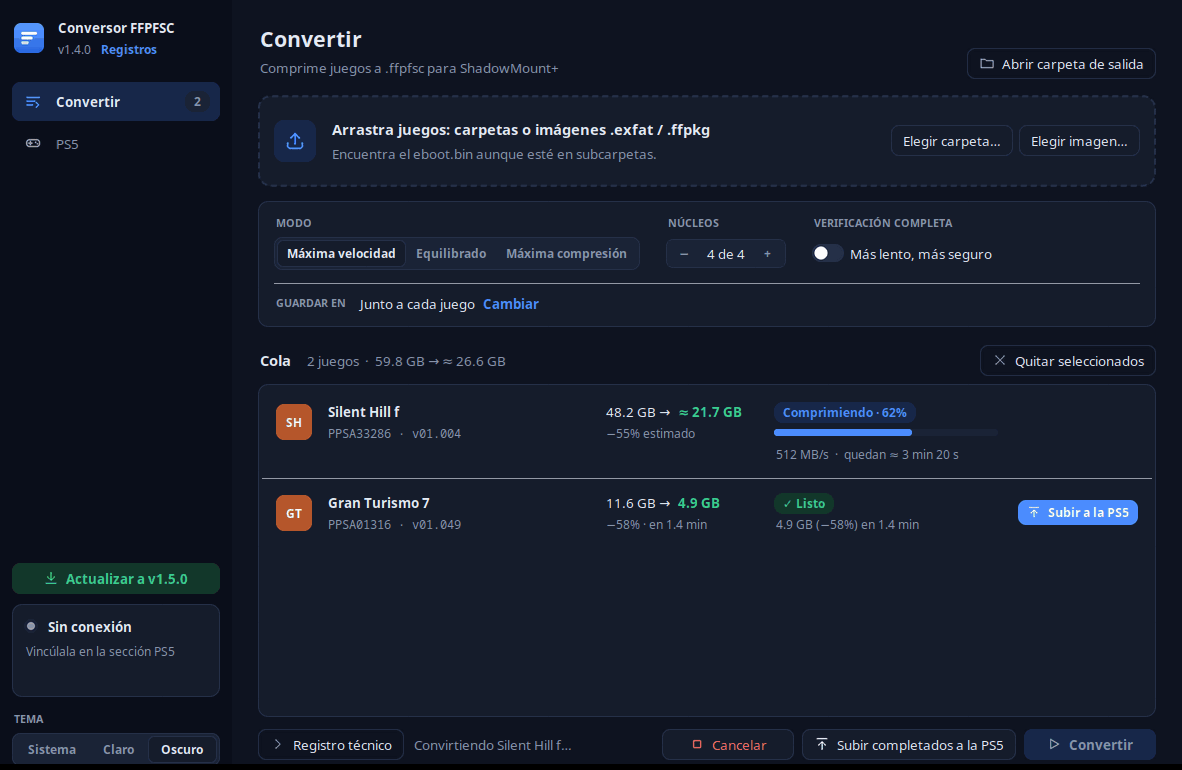
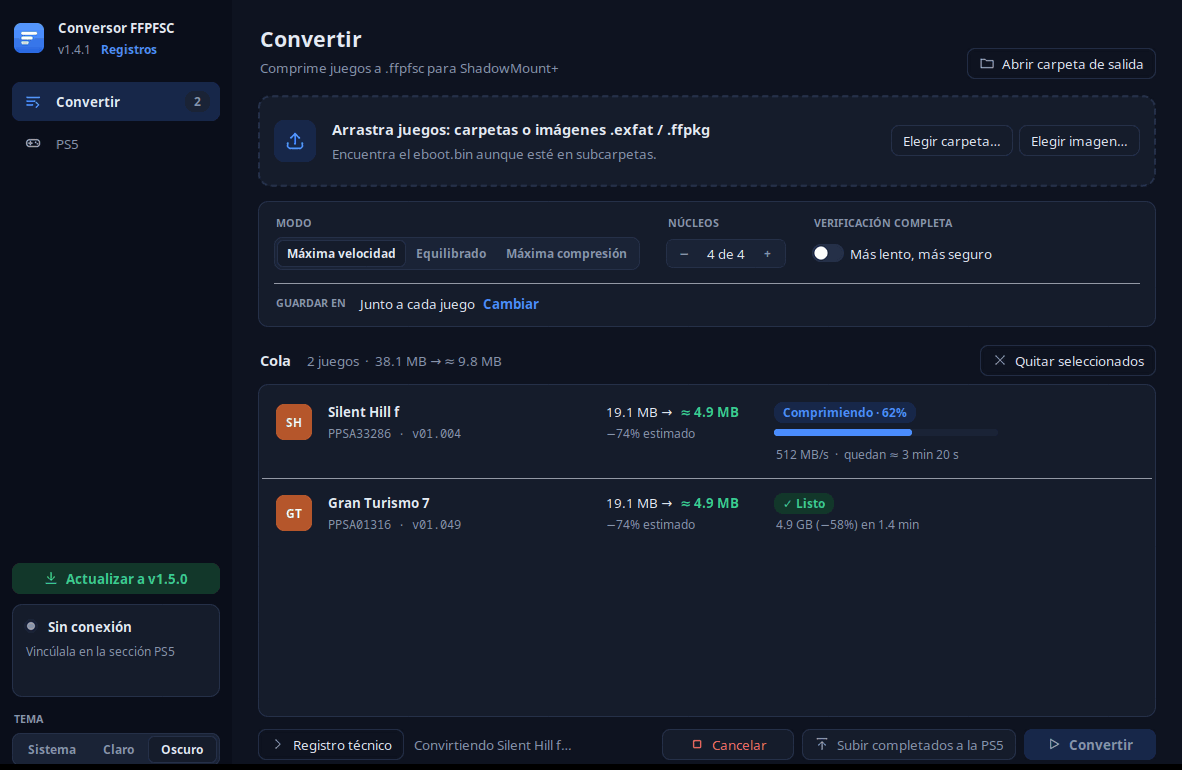
chore(release): v1.4.1
- Versión 1.4.1 en __init__.py, la insignia del README y los ejemplos de
  las docstrings.
- CHANGELOG: las correcciones del congelamiento al comprimir pasan a
  [1.4.1] - 2026-10-10.
- Capturas del README con la versión 1.4.1.

diff --git a/src/ffpfsc_converter/ui/presenters.py b/src/ffpfsc_converter/ui/presenters.py
@@ -27,7 +27,7 @@ def version_text(version: str = __version__) -> str:
         version (str): Versión en formato SemVer; por defecto, la instalada.
 
     Returns:
-        str: Versión con prefijo, por ejemplo ``"v1.4.0"``.
+        str: Versión con prefijo, por ejemplo ``"v1.4.1"``.
     """
     return f"v{version}"
 
@@ -39,7 +39,7 @@ def window_title(version: str = __version__) -> str:
         version (str): Versión en formato SemVer; por defecto, la instalada.
 
     Returns:
-        str: Por ejemplo ``"Conversor FFPFSC (PS5) — v1.4.0"``.
+        str: Por ejemplo ``"Conversor FFPFSC (PS5) — v1.4.1"``.
     """
     return f"{APP_TITLE} — {version_text(version)}"
 

diff --git a/src/ffpfsc_converter/ui/shell.py b/src/ffpfsc_converter/ui/shell.py
@@ -84,7 +84,7 @@ class AppShell(ttk.Frame):
         Args:
             root (tk.Misc): Ventana raíz.
             theme (ThemeManager): Tema.
-            version (str): Versión de la app (por ejemplo ``"v1.4.0"``).
+            version (str): Versión de la app (por ejemplo ``"v1.4.1"``).
         """
         super().__init__(root, style="TFrame")
         self._theme = theme

diff --git a/src/ffpfsc_converter/__init__.py b/src/ffpfsc_converter/__init__.py
@@ -4,4 +4,4 @@ Interfaz gráfica sobre MkPFS (https://github.com/PSBrew/MkPFS), configurada
 para máxima velocidad usando todos los núcleos de la CPU.
 """
 
-__version__ = "1.4.0"
+__version__ = "1.4.1"

diff --git a/README.md b/README.md
@@ -8,7 +8,7 @@
 
 **Carpeta de juego · `.exfat` · `.ffpkg` &nbsp;→&nbsp; `.ffpfsc`**
 
-[![Versión](https://img.shields.io/badge/versión-1.4.0-6366f1?style=for-the-badge)](CHANGELOG.md)
+[![Versión](https://img.shields.io/badge/versión-1.4.1-6366f1?style=for-the-badge)](CHANGELOG.md)
 [![Python](https://img.shields.io/badge/Python-3.10+-3776AB?style=for-the-badge&logo=python&logoColor=white)](https://www.python.org/)
 [![Linux](https://img.shields.io/badge/Linux-FCC624?style=for-the-badge&logo=linux&logoColor=black)](#-instalación)
 [![Windows](https://img.shields.io/badge/Windows-10%20%7C%2011-0078D6?style=for-the-badge&logo=windows&logoColor=white)](#-instalación)

diff --git a/CHANGELOG.md b/CHANGELOG.md
@@ -5,6 +5,8 @@ el proyecto usa [Versionado Semántico](https://semver.org/lang/es/).
 
 ## [Sin publicar]
 
+## [1.4.1] - 2026-10-10
+
 ### Corregido
 - La app se congelaba al comprimir (sobre todo en Windows y con muchos núcleos):
   MkPFS redibuja su barra cientos o miles de veces por segundo y cada redibujo
